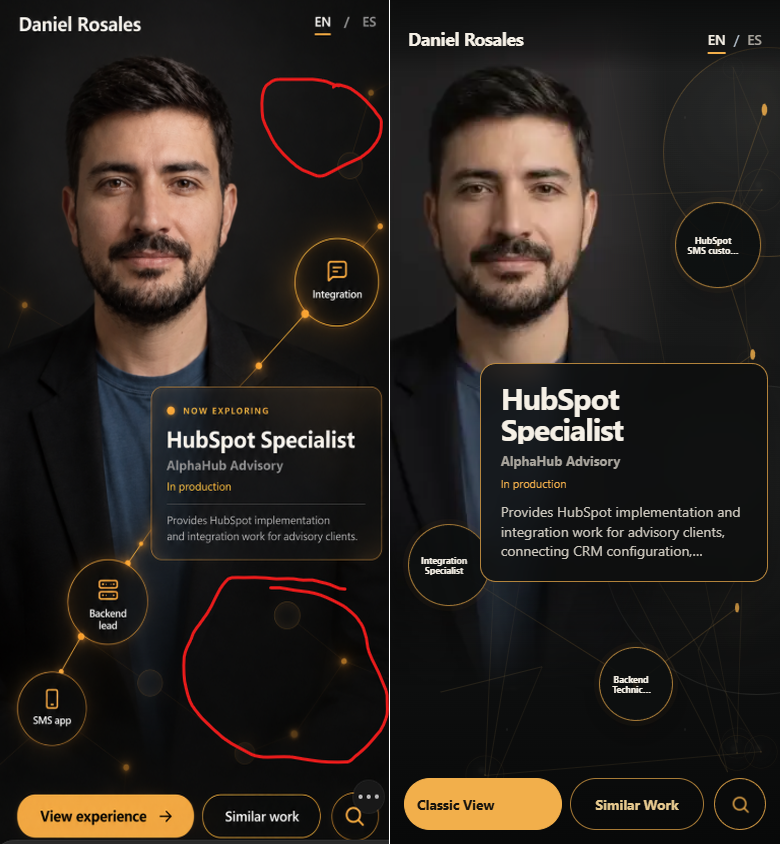
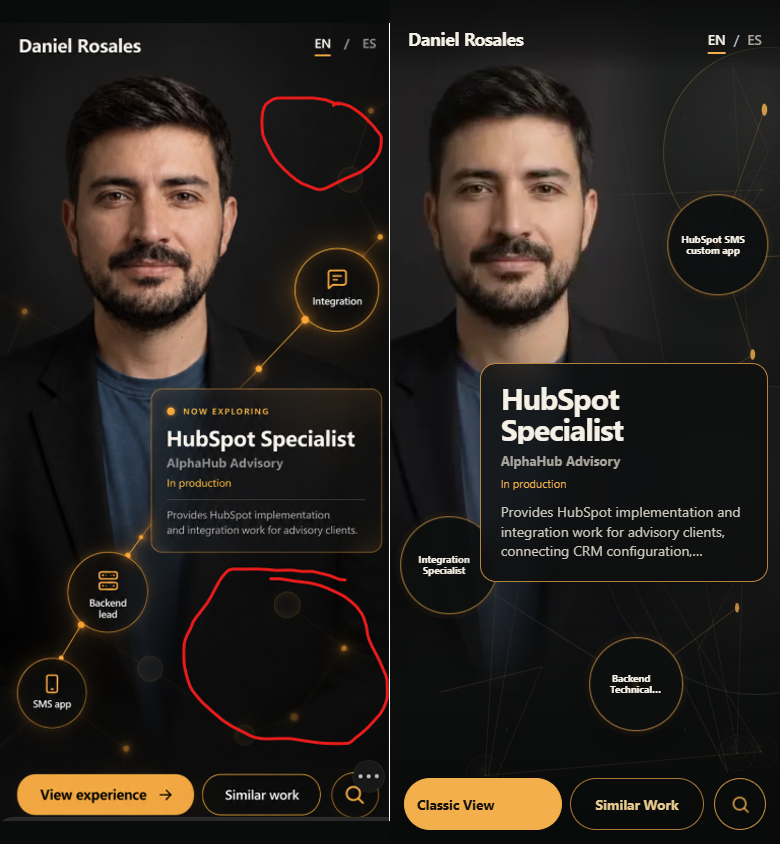
Enlarge responsive constellation previews

diff --git a/src/styles/global.css b/src/styles/global.css
@@ -483,7 +483,7 @@ footer { max-width: 1536px; min-height: 64px; margin: 22px auto 0; padding: 0 cl
 .experience-shell .relation--mid { display: none; }
 .experience-shell .claim-graph { z-index: 5; }
 .experience-shell .claim-node {
-  width: clamp(112px, 9.2vw, 148px);
+  width: clamp(126px, 9.8vw, 168px);
   aspect-ratio: 1;
   min-height: 0;
   display: grid;
@@ -524,10 +524,10 @@ footer { max-width: 1536px; min-height: 64px; margin: 22px auto 0; padding: 0 cl
   font-size: clamp(11px, 11cqi, 15px);
   line-height: 1.16;
 }
-.experience-shell .claim-node--text-compact { gap: 6px; padding: 15px; }
-.experience-shell .claim-node--text-compact strong { font-size: clamp(10px, 10cqi, 13.5px); line-height: 1.14; }
-.experience-shell .claim-node--text-dense { gap: 5px; padding: 14px; }
-.experience-shell .claim-node--text-dense strong { font-size: clamp(9px, 9cqi, 12.5px); line-height: 1.12; }
+.experience-shell .claim-node--text-compact { gap: 6px; padding: 16px; }
+.experience-shell .claim-node--text-compact strong { font-size: clamp(11px, 10.5cqi, 14.5px); line-height: 1.14; }
+.experience-shell .claim-node--text-dense { gap: 5px; padding: 15px; }
+.experience-shell .claim-node--text-dense strong { font-size: clamp(10px, 9.5cqi, 13.5px); line-height: 1.12; }
 .experience-focus {
   position: absolute;
   left: 60%;
@@ -730,9 +730,9 @@ footer { max-width: 1536px; min-height: 64px; margin: 22px auto 0; padding: 0 cl
 
 @media (max-width: 1100px) and (min-width: 701px) {
   .constellation-header { grid-template-columns: minmax(190px, .75fr) minmax(280px, 1.3fr) auto; gap: 20px; }
-  .experience-shell .claim-node { width: 104px; padding: 12px; }
-  .experience-shell .claim-node--text-compact { padding: 10px; }
-  .experience-shell .claim-node--text-dense { padding: 9px; }
+  .experience-shell .claim-node { width: 118px; padding: 14px; }
+  .experience-shell .claim-node--text-compact { padding: 12px; }
+  .experience-shell .claim-node--text-dense { padding: 11px; }
   .experience-shell .claim-node--north { left: 58%; top: 21%; }
   .experience-shell .claim-node--west { left: 20%; top: 38%; }
   .experience-shell .claim-node--east { left: 92%; top: 35%; }
@@ -872,14 +872,14 @@ footer { max-width: 1536px; min-height: 64px; margin: 22px auto 0; padding: 0 cl
   }
   .experience-shell .claim-node, .experience-shell .claim-node:hover, .experience-shell .claim-node:focus-visible {
     position: absolute;
-    width: clamp(68px, 22vw, 92px);
-    padding: 10px;
+    width: clamp(82px, 26vw, 108px);
+    padding: 11px;
     transform: translate(-50%, -50%);
   }
   .experience-shell .claim-node:nth-child(1) { left: 84%; top: 29%; }
-  .experience-shell .claim-node:nth-child(2) { left: 15%; top: 67%; width: clamp(66px, 21vw, 88px); }
-  .experience-shell .claim-node:nth-child(3) { left: 63%; top: 81%; width: clamp(62px, 19vw, 80px); }
-  .experience-shell .claim-node strong { -webkit-line-clamp: 2; font-size: clamp(9px, 11cqi, 13px); line-height: 1.12; }
+  .experience-shell .claim-node:nth-child(2) { left: 15%; top: 67%; width: clamp(80px, 25vw, 104px); }
+  .experience-shell .claim-node:nth-child(3) { left: 63%; top: 81%; width: clamp(76px, 24vw, 98px); }
+  .experience-shell .claim-node strong { -webkit-line-clamp: 2; font-size: clamp(10px, 11.5cqi, 14px); line-height: 1.12; }
   .experience-shell .claim-node--initial { animation-name: mobile-node-arrival; }
   .experience-shell .claim-node::after { content: none; }
   .experience-shell .claim-node::before { content: none; }
@@ -957,5 +957,5 @@ footer { max-width: 1536px; min-height: 64px; margin: 22px auto 0; padding: 0 cl
   .experience-shell .detail-summary { -webkit-line-clamp: 2; }
   .experience-shell .claim-node:nth-child(1) { top: 28%; }
   .experience-shell .claim-node:nth-child(2) { top: 68%; }
-  .experience-shell .claim-node:nth-child(3) { top: 82%; }
+  .experience-shell .claim-node:nth-child(3) { top: 80%; }
 }

diff --git a/tests/quality-contract.test.ts b/tests/quality-contract.test.ts
@@ -58,6 +58,10 @@ test("the constellation preloads semantic reserve layers with a quiet mobile pre
   assert.match(component, /renderedNodes\.slice\(0, 3\)/);
   assert.doesNotMatch(component, /<small>\{lifecycleLabel\}<\/small>/);
   assert.match(styles, /container-type: inline-size/);
+  assert.match(styles, /width: clamp\(126px, 9\.8vw, 168px\)/);
+  assert.match(styles, /width: clamp\(82px, 26vw, 108px\)/);
+  assert.match(styles, /width: clamp\(80px, 25vw, 104px\)/);
+  assert.match(styles, /width: clamp\(76px, 24vw, 98px\)/);
   assert.match(styles, /-webkit-line-clamp: 3/);
   assert.match(styles, /claim-detail h2 \{ -webkit-line-clamp: 2/);
   assert.match(styles, /claim-detail--dense/);

diff --git a/src/constellation-layers.ts b/src/constellation-layers.ts
@@ -49,7 +49,7 @@ export interface LayerPlan {
 export const constellationFocus: ConstellationPoint = [60, 54];
 export const constellationSlots: readonly ConstellationSlot[] = [
   { index: 0, point: [54, 13], midPoint: [58, 21], className: "north" },
-  { index: 1, point: [30, 34], midPoint: [20, 38], className: "west" },
+  { index: 1, point: [31.5, 34], midPoint: [20, 38], className: "west" },
   { index: 2, point: [83, 31], midPoint: [92, 35], className: "east" },
   { index: 3, point: [39, 79], midPoint: [22, 81], className: "south-west" },
   { index: 4, point: [79, 77], midPoint: [91, 79], className: "south-east" },

diff --git a/design-qa.md b/design-qa.md
@@ -3,6 +3,7 @@
 - Source visual truth: `docs/design/mobile-space-usage-feedback.png`
 - Implementation screenshot: `docs/design/mobile-space-usage-implementation.png`
 - Combined comparison: `docs/design/mobile-space-usage-comparison.png`
+- Wide-screen implementation: `docs/design/preview-node-scale-wide.png`
 - Implementation viewport: 390 x 844 CSS pixels at device scale factor 1
 - Source pixels: 384 x 786; normalized to 390 x 844 for the comparison board
 - Implementation pixels: 390 x 844
@@ -17,12 +18,14 @@ The normalized annotated source and revised implementation were inspected togeth
 - Focus panel: the revised surface is wider and taller, carries a larger title, preserves organization and focused lifecycle state, and allows a three-line summary. It is now the strongest information object rather than a small overlay.
 - Avatar and face: the portrait is scaled to 90% and shifted slightly left/up. The face remains unobstructed at 390 x 844 and 320 x 568 while the card occupies the torso.
 - Active constellation: three title-only circles alternate from upper-right to left-middle to lower-right. One straight-segment SVG polyline connects the sequence and includes illuminated joints; it is decorative and does not alter graph semantics.
+- Preview readability: mobile circles now scale from 76-108px according to their hierarchy, tablet circles use a 118px target, and desktop/wide circles scale from 126-168px. Compact and dense labels gained proportional padding and type size without exposing lifecycle commentary.
 - Controls: the bottom dock remains fully visible and separate from the animated focus panel at both tested phone sizes.
 
 ## Required fidelity surfaces
 
 - Fonts and typography: the existing Inter/system stack remains consistent with the product. The focus title is now 24-32px on mobile with tighter display leading; supporting text remains readable and clamped without overflow.
 - Spacing and layout rhythm: the card grows from a narrow torso overlay to the primary 77%-wide information region. The smaller portrait creates breathing room, while the zig-zag nodes use the upper-right, left-middle, and lower-right bands instead of a single diagonal.
+- Wide-screen balance: the five preview circles now keep a legible 168px ceiling instead of stopping at 148px. The west slot shifts slightly outward so the larger preview remains clear of the responsive avatar halo at 2572 x 1233.
 - Colors and visual tokens: existing graphite, amber, ivory, and muted gray tokens are preserved. Active mobile connectors and reserve edges are strengthened modestly to make the constellation legible.
 - Image quality and asset fidelity: the approved first-party avatar video and poster remain unchanged. Only CSS scale, anchor, and masking composition changed; no generated likeness replaced the real asset.
 - Copy and content: approved labels remain `Classic View` and `Similar Work`; preview nodes remain title-only, and lifecycle state remains exclusive to the focused record.
@@ -38,6 +41,9 @@ The normalized annotated source and revised implementation were inspected togeth
 3. Earlier hybrid implementation: P2 active nodes read as a nearly straight diagonal and the empty right-side regions weakened the constellation theme.
    - Fix: repositioned the three mobile nodes into a right-left-right sequence, added a connected straight-segment polyline with luminous joints, and raised the quiet reserve-field contrast.
    - Post-fix evidence: the final comparison and implementation capture show deliberate direction changes across the full viewport.
+4. Preview scale pass: P2 side-node titles were technically bounded but unnecessarily small on both phones and wide screens.
+   - Fix: raised the responsive circle sizes and compact/dense label scales across mobile, tablet, desktop, and wide breakpoints; moved the wide west slot 1.5 percentage points outward to preserve the avatar boundary.
+   - Post-fix evidence: `mobile-space-usage-comparison.png` and `preview-node-scale-wide.png` show larger readable previews; the browser matrix reports no horizontal overflow, label overflow, or wide-avatar collision.
 
 ## Browser verification
 
@@ -46,6 +52,6 @@ The normalized annotated source and revised implementation were inspected togeth
 - Console and page errors: none.
 - Horizontal overflow and node-label overflow: none.
 - External runtime requests: none.
-- Remaining P3: very long preview titles still truncate to two lines; the full title remains available to assistive technology and through the element title.
+- Remaining P3: very long mobile preview titles still truncate to two lines by design; the larger circle/type treatment improves scanability, while the full title remains available to assistive technology and through the element title.
 
 final result: passed
